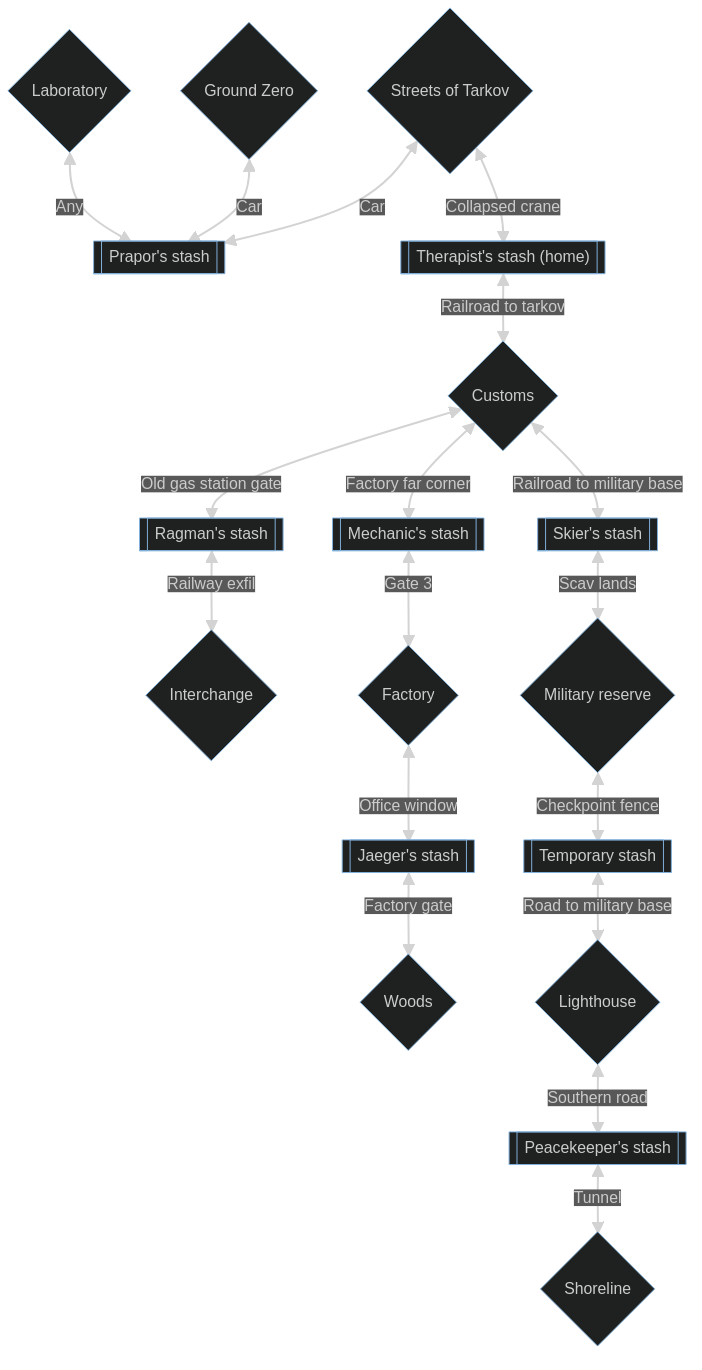
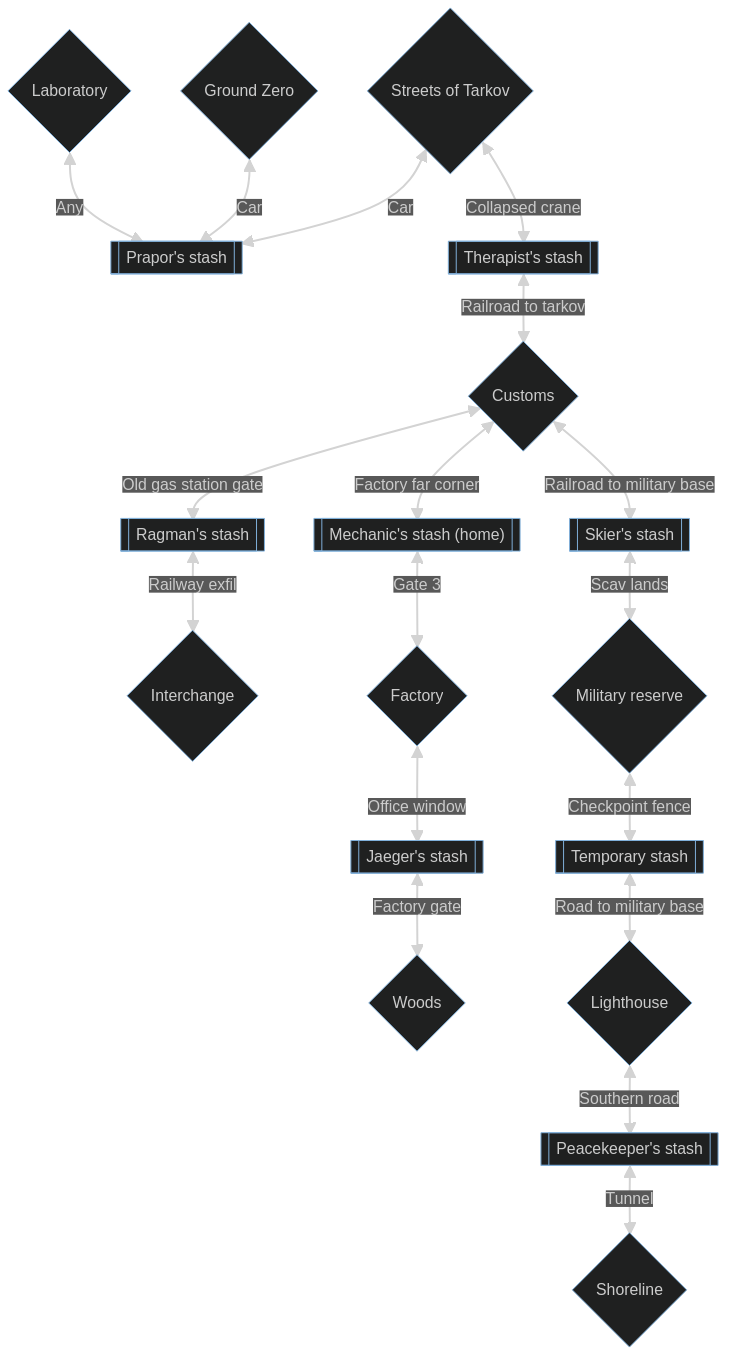
docs: fix home position that was not correct

diff --git a/paths/default.md b/paths/default.md
@@ -12,8 +12,8 @@ flowchart TD
     Shoreline{Shoreline}
 
     Prapor[[Prapor's stash]]
-    Therapist[["Therapist's stash (home)"]]
-    Mechanic[[Mechanic's stash]]
+    Therapist[["Therapist's stash"]]
+    Mechanic[["Mechanic's stash (home)"]]
     Ragman[[Ragman's stash]]
     Skier[[Skier's stash]]
     Peacekeeper[[Peacekeeper's stash]]
